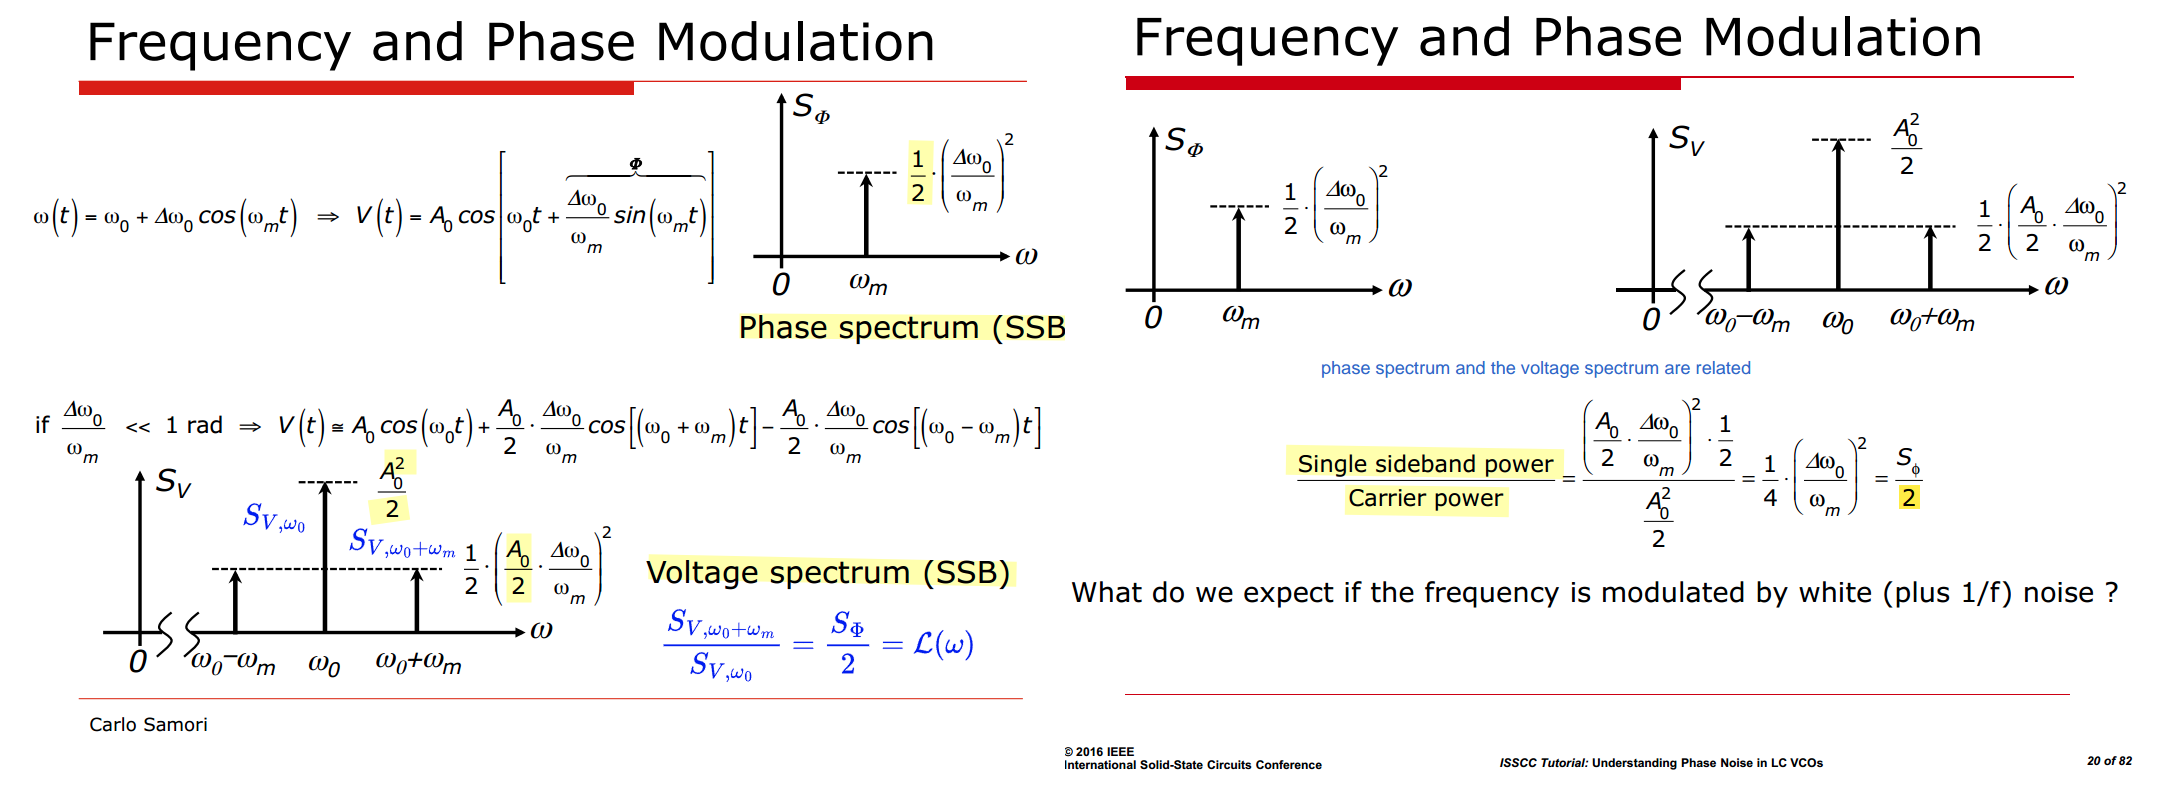
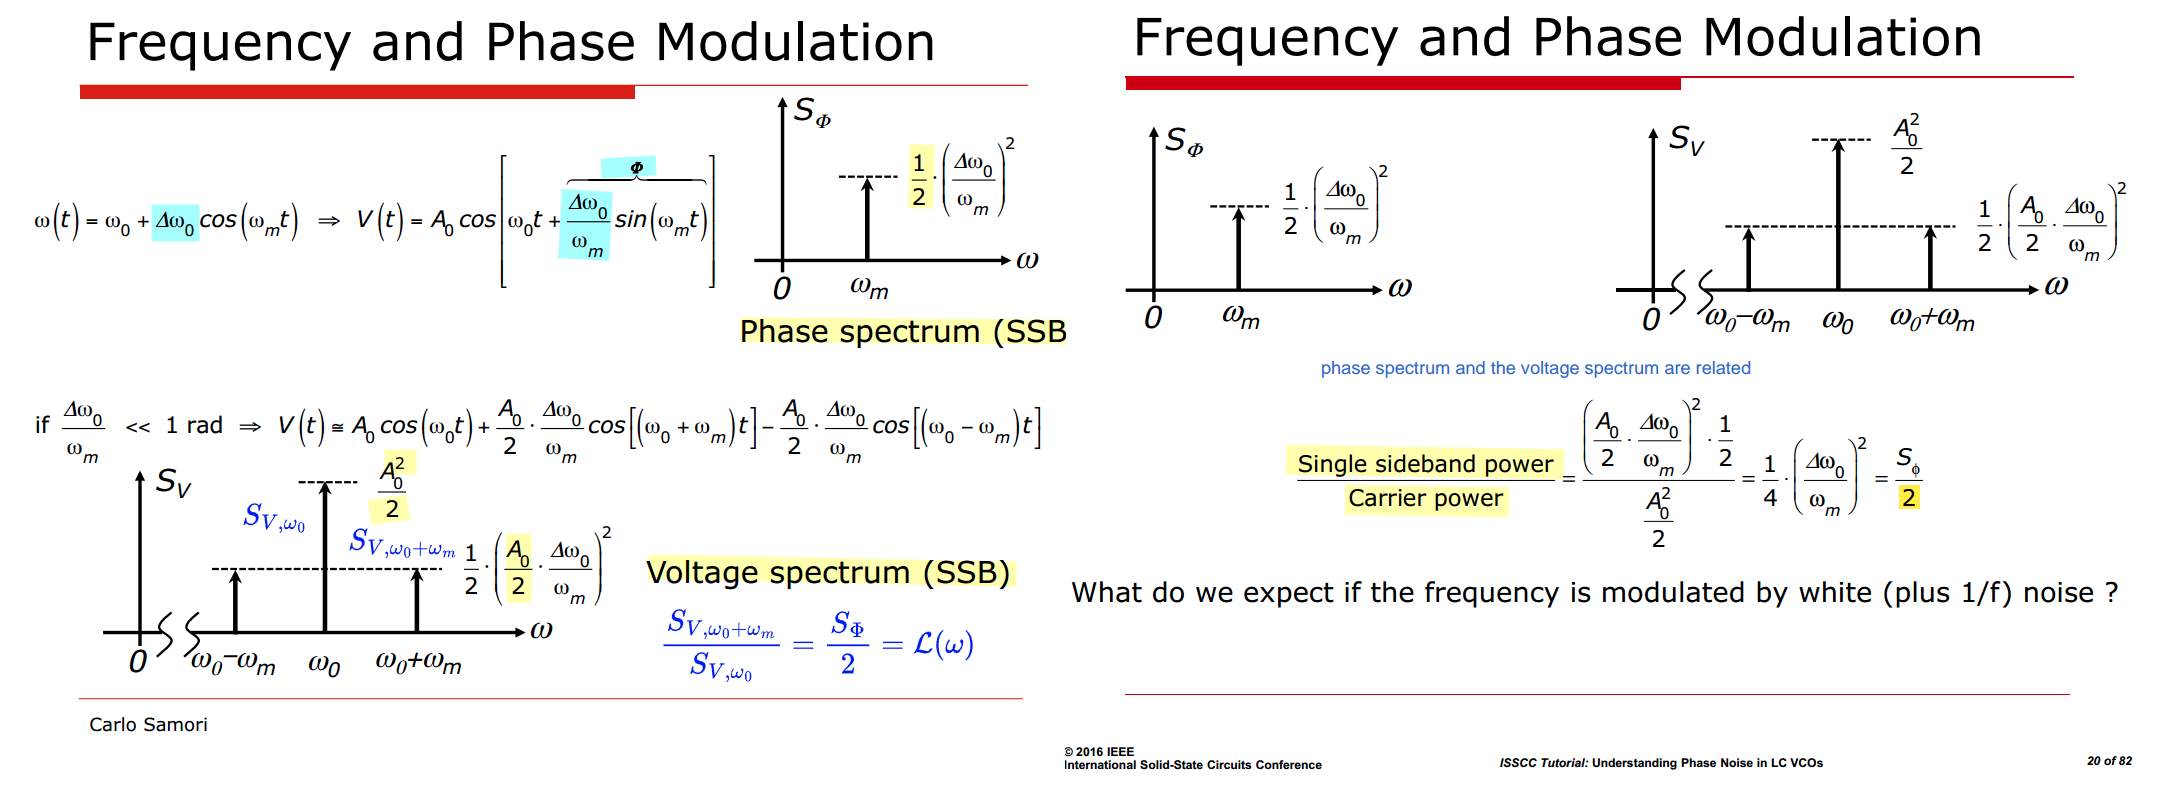
FM/PM

diff --git a/source/_posts/jitter.md b/source/_posts/jitter.md
@@ -38,6 +38,9 @@ mathjax: true
 
 ![image-20260621101558719](jitter/image-20260621101558719.png)
 
+FM $\Delta \omega_0 \cos\omega_m t$ to PM $\frac{\Delta \omega_0}{\omega_m} \sin\omega_m t$ depend on FM modulation frequency $\omega_m$
+
+
 ![image-20260609231247931](jitter/image-20260609231247931.png)
 
 ![image-20260609231317481](jitter/image-20260609231317481.png)
@@ -58,6 +61,8 @@ Spurious Tones in Spectrum & ***S**pur-to-**C**arrier **R**atio* (**SCR**)
 
 ![image-20250523222846691](jitter/image-20250523222846691.png)
 
+
+single tone PM $A\sin\omega_m t$ to DJ don't depend on PM modulation frequency $\omega_m$
 
 
 ---
